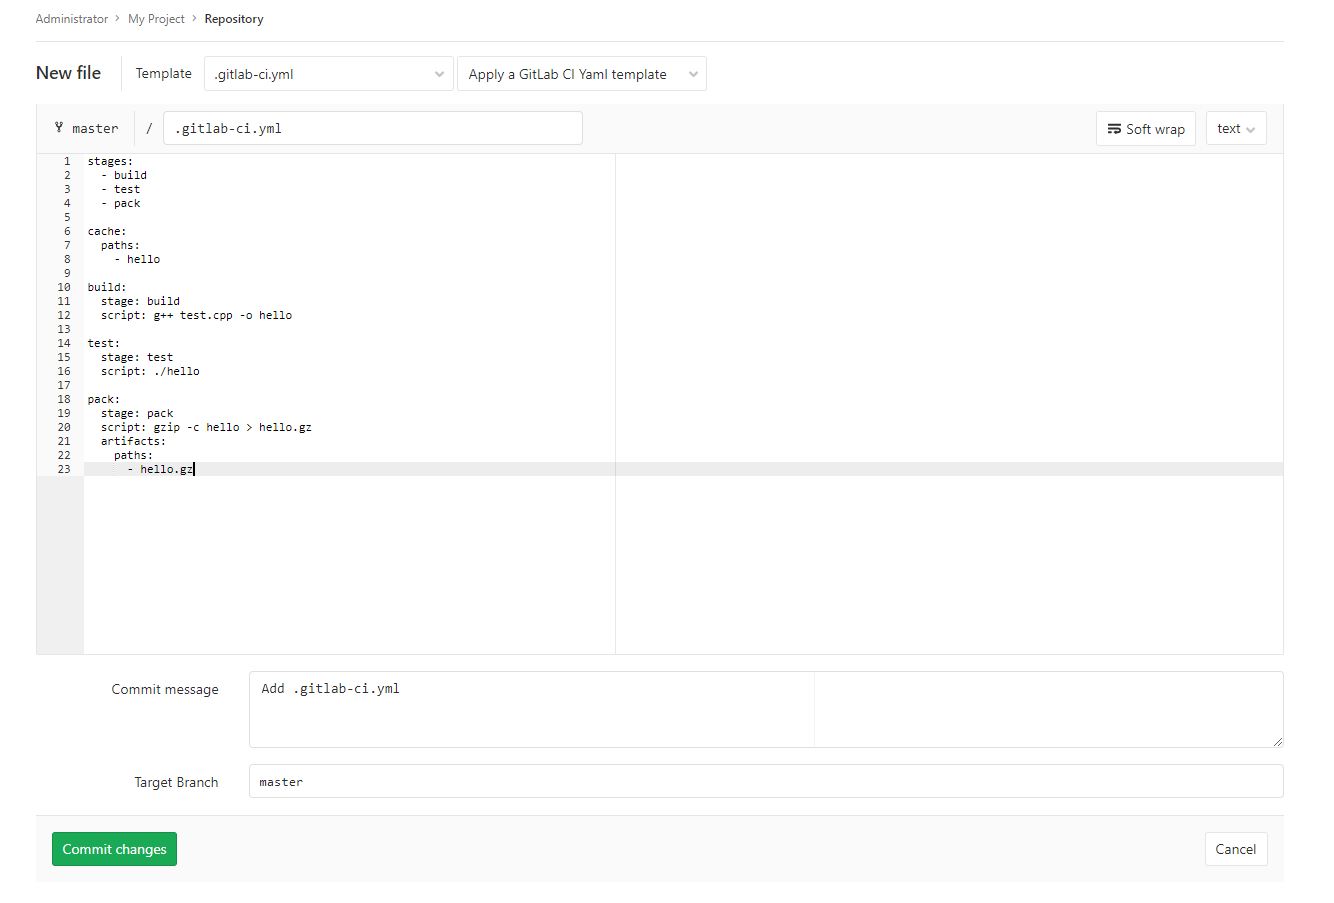
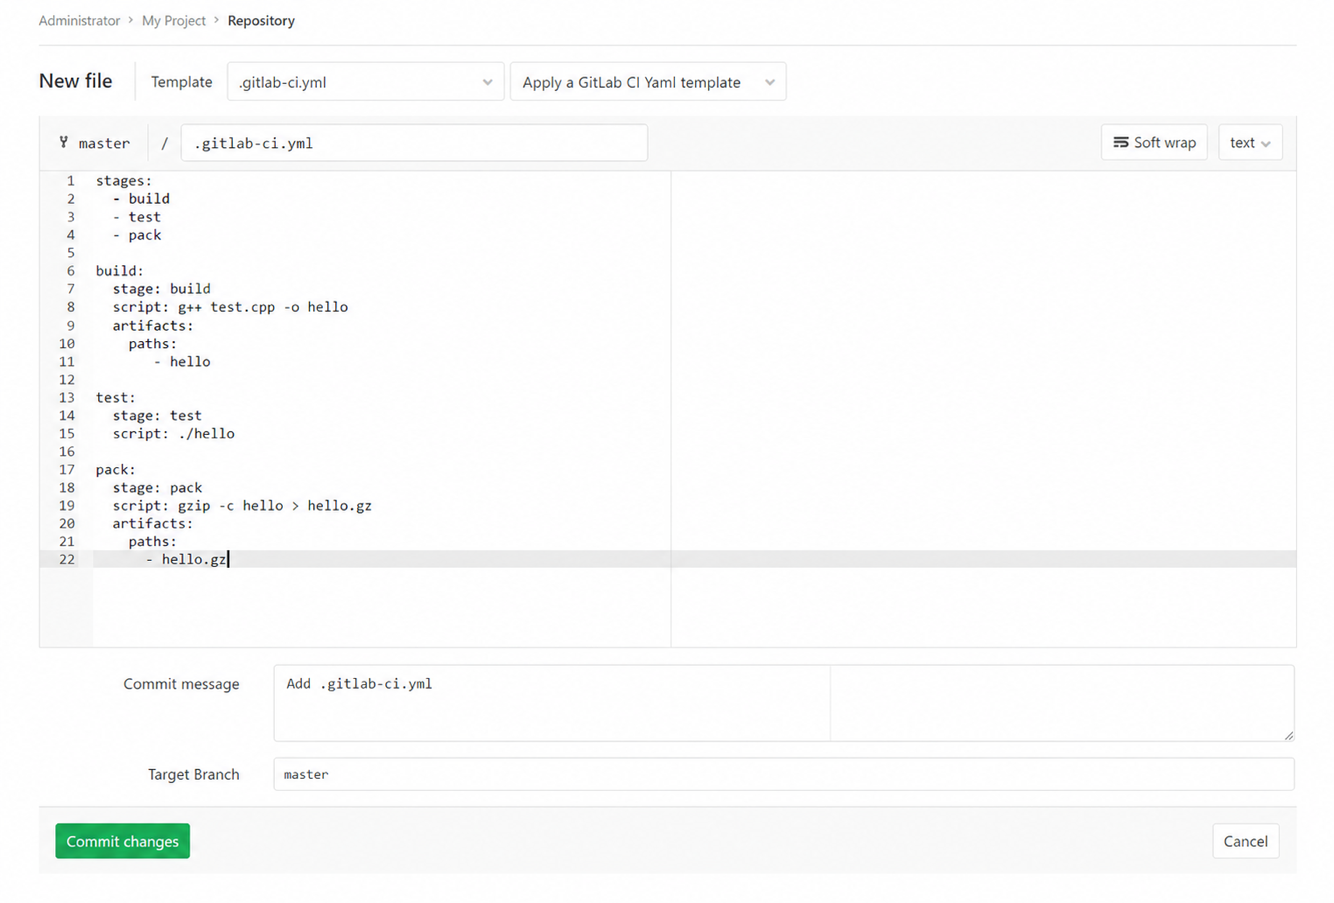
Fix CI/CD anti-pattern (#1163)
* fix CI/CD anti-pattern

* fix grammar typos

* updates

---------

diff --git a/ru/_tutorials/dev/gitlab.md b/ru/_tutorials/dev/gitlab.md
@@ -85,7 +85,7 @@
 1. Отключите опцию **Sign-up enabled**.
 1. Нажмите кнопку **Save changes**.
 
-Теперь зарегистрировать новых пользователь может только администратор, через вкладку **Users** в разделе **Overview**.
+После этого пользователи не смогут регистрироваться самостоятельно. Администратор может создавать учетные записи в разделе **Overview** → **Users**. Подробнее в [документации {{ GL }}](https://docs.gitlab.com/user/profile/account/create_accounts/).
 
 ## Создайте проект {#create-project}
 
@@ -226,13 +226,12 @@
         - test
         - pack
 
-      cache:
-        paths:
-          - hello
-
       build:
         stage: build
         script: g++ test.cpp -o hello
+        artifacts:
+          paths:
+            - hello
 
       test:
         stage: test
@@ -251,7 +250,7 @@
       * `test` — на втором исполняемый файл запускается.
       * `pack` — на третьем этапе создается архив с исполняемым файлом, который можно будет загрузить через веб-интерфейс {{ GL }} после успешного завершения сценария. В блоке `artifacts` указаны файлы, доступные для загрузки.
 
-      В блоке `cache` указываются файлы и директории, которые необходимо передавать между этапами. Если его не указать, то на этапе `test` файл `hello` не будет доступен и произойдет ошибка.
+      Задача `build` сохраняет исполняемый файл `hello` как артефакт. По умолчанию задачи следующих этапов скачивают артефакты предыдущих этапов, поэтому файл `hello` будет доступен задачам `test` и `pack`. Без этого артефакта обе задачи завершатся с ошибкой. Подробнее в [документации {{ GL }}](https://docs.gitlab.com/ci/jobs/job_artifacts/).
 
       ![Сценарий тестирования](../../_assets/tutorials/gitlab/gitlab6.png)
 
